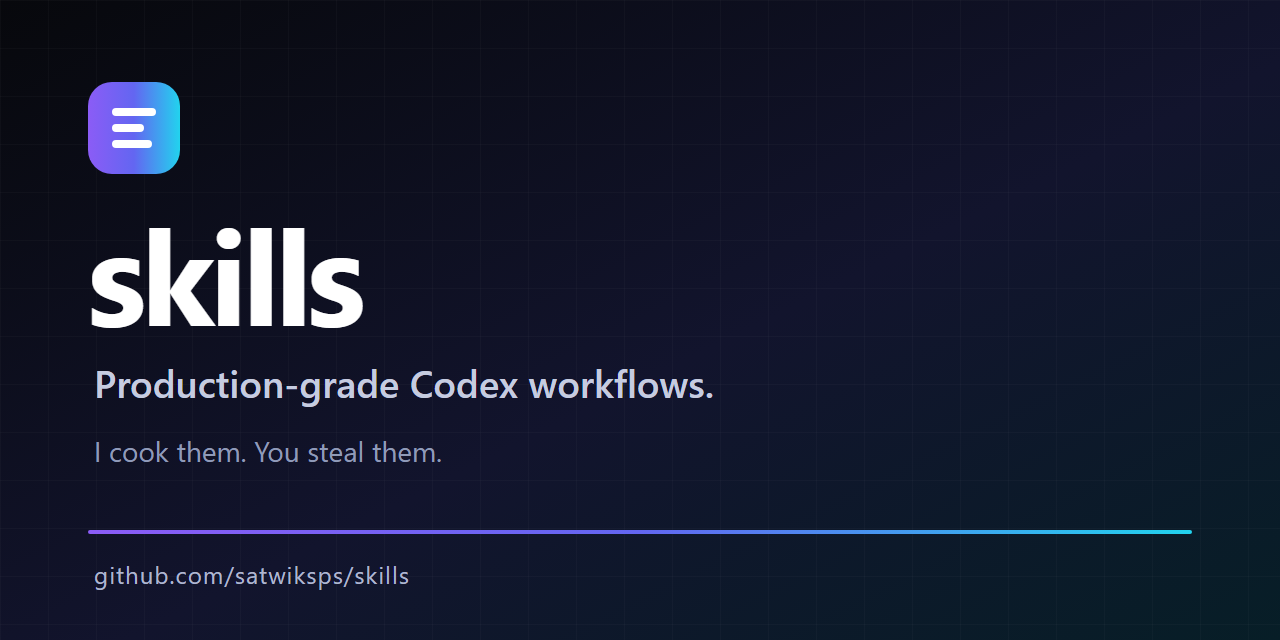
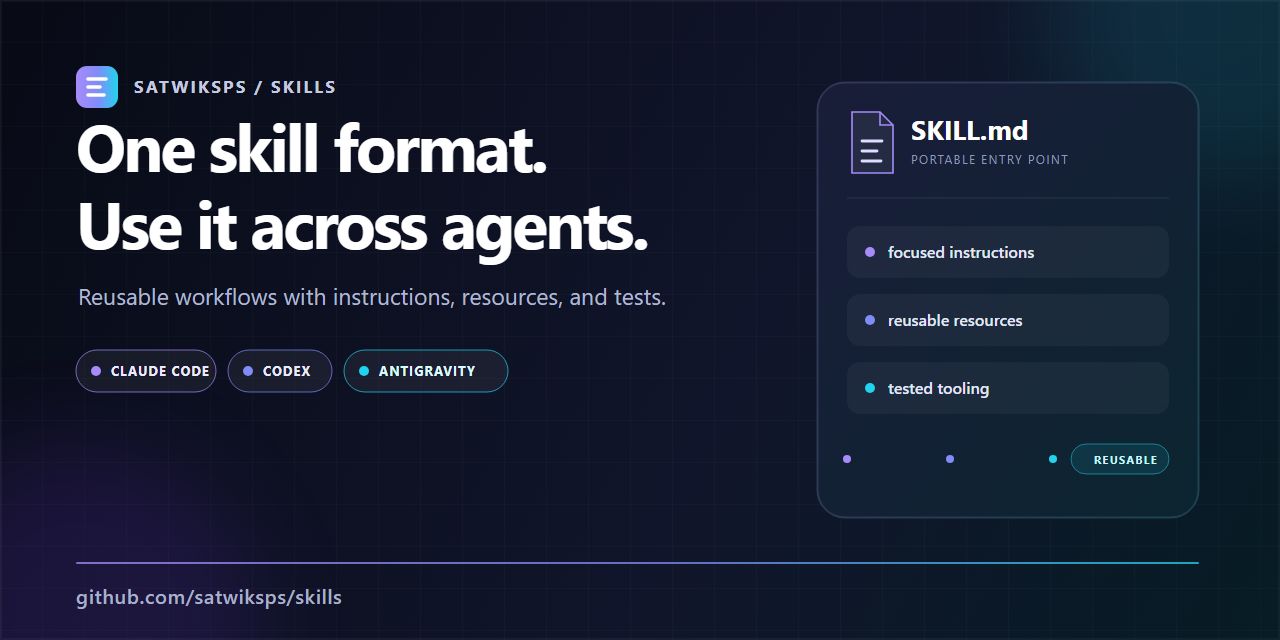
docs: clarify cross-agent support (#2)
Move the repository heading above a professional cross-agent banner, document installation for Claude Code, Codex, and Antigravity, and refresh the social preview.

diff --git a/README.md b/README.md
@@ -1,7 +1,7 @@
+# skills
+
 <div align="center">
-  <img src="assets/banner.svg" alt="Skills: tested workflows for Codex" width="100%">
-  <h1>skills</h1>
-  <p><strong>Production-grade Codex skills. I cook them; you steal them.</strong></p>
+  <img src="assets/banner.svg" alt="One skill format for Claude, Codex, and Antigravity" width="100%">
   <p>
     <a href="https://github.com/satwiksps/skills/actions/workflows/ci.yml"><img src="https://github.com/satwiksps/skills/actions/workflows/ci.yml/badge.svg" alt="CI"></a>
     <a href="LICENSE"><img src="https://img.shields.io/badge/license-Apache--2.0-7c3aed.svg" alt="Apache-2.0"></a>
@@ -9,7 +9,7 @@
   </p>
 </div>
 
-This is my public collection of focused, tested workflows for Codex. Each skill is a self-contained directory with clear activation rules, supporting references, and validation appropriate to the work it performs.
+Reusable agent skills for Claude Code, Codex, and Antigravity. Each skill is a self-contained `SKILL.md` package with focused activation rules, supporting resources, and validation appropriate to the work it performs.
 
 The goal is not to collect prompts. The goal is to make difficult work repeatable.
 
@@ -23,31 +23,85 @@ More skills will be added only when they solve a real workflow and include evide
 
 ## Install a skill
 
-Ask Codex:
+These skills use the portable Agent Skills layout. Install a skill directory in the location used by your agent:
+
+| Agent | Personal or global location | Invocation |
+| --- | --- | --- |
+| Claude Code | `~/.claude/skills/<skill-name>/` | `/skill-name` |
+| Codex | `~/.agents/skills/<skill-name>/` | `$skill-name` |
+| Antigravity | `~/.gemini/config/skills/<skill-name>/` | Mention the skill by name or let Antigravity discover it |
+
+Claude Code also supports project skills in `.claude/skills/`. Codex and Antigravity support repository or workspace skills in `.agents/skills/`.
+
+### Install directly with Codex
+
+Ask Codex to install the latest version:
 
 ```text
 Use $skill-installer to install the build-open-source-software skill from https://github.com/satwiksps/skills/tree/main/skills/build-open-source-software
 ```
 
-The skill becomes available on the next turn. Invoke it with:
+For a reproducible install, replace `main` with a release tag such as `v0.1.0`.
 
-```text
-Use $build-open-source-software with C:\path\to\idea.md
-```
+### Install manually with any supported agent
 
-Manual installation through Codex's bundled installer is also available:
+Clone the collection, then copy the skill directory you want into the appropriate location above:
 
 ```console
-python ~/.codex/skills/.system/skill-installer/scripts/install-skill-from-github.py \
-  --repo satwiksps/skills \
-  --path skills/build-open-source-software
+git clone --depth 1 https://github.com/satwiksps/skills.git satwiksps-skills
 ```
 
-On Windows PowerShell, use `py` and the corresponding path under `$env:USERPROFILE\.codex\skills`.
+The commands below install `build-open-source-software`. Run the pair for your agent.
+
+macOS and Linux:
+
+```sh
+# Claude Code
+mkdir -p ~/.claude/skills
+cp -R satwiksps-skills/skills/build-open-source-software ~/.claude/skills/
+
+# Codex
+mkdir -p ~/.agents/skills
+cp -R satwiksps-skills/skills/build-open-source-software ~/.agents/skills/
+
+# Antigravity
+mkdir -p ~/.gemini/config/skills
+cp -R satwiksps-skills/skills/build-open-source-software ~/.gemini/config/skills/
+```
+
+Windows PowerShell:
+
+```powershell
+# Claude Code
+New-Item -ItemType Directory -Force "$env:USERPROFILE\.claude\skills" | Out-Null
+Copy-Item ".\satwiksps-skills\skills\build-open-source-software" "$env:USERPROFILE\.claude\skills" -Recurse
+
+# Codex
+New-Item -ItemType Directory -Force "$env:USERPROFILE\.agents\skills" | Out-Null
+Copy-Item ".\satwiksps-skills\skills\build-open-source-software" "$env:USERPROFILE\.agents\skills" -Recurse
+
+# Antigravity
+New-Item -ItemType Directory -Force "$env:USERPROFILE\.gemini\config\skills" | Out-Null
+Copy-Item ".\satwiksps-skills\skills\build-open-source-software" "$env:USERPROFILE\.gemini\config\skills" -Recurse
+```
+
+### Invoke the skill
+
+Use the form supported by your agent:
+
+```text
+Claude Code: /build-open-source-software /path/to/idea.md
+Codex: Use $build-open-source-software with /path/to/idea.md
+Antigravity: Use the build-open-source-software skill with /path/to/idea.md
+```
+
+The shared skill format works across all three agents. Host tools, permissions, and invocation behavior can differ.
 
 ## Why trust these skills?
 
 The first skill includes a suite of 90 unit and adversarial tests for its deterministic audit tooling. Its checks cover private planning data, transformed content, Git history, authored prose, archive structure, release metadata, legal files, artifact staging, signing contracts, and clean-checkout behavior.
+
+These tests validate the bundled deterministic tooling and repository package. They are not a host-level end-to-end test matrix for every agent UI.
 
 Every skill in this repository must:
 
@@ -57,8 +111,6 @@ Every skill in this repository must:
 - include a concrete validation path;
 - avoid placeholders, fabricated proof, and hidden manual steps;
 - document its limitations honestly.
-
-Codex is the tested target. Compatibility with other agents is not claimed until it has been exercised there.
 
 ## Repository layout
 

diff --git a/skills/build-open-source-software/README.md b/skills/build-open-source-software/README.md
@@ -1,22 +1,35 @@
-<div align="center">
-  <h1>build-open-source-software</h1>
-  <p><strong>Turn a private idea into tested, documented, release-ready open-source software.</strong></p>
-</div>
+# build-open-source-software
 
-This Codex skill guides a new project from `idea.md` through an approved private plan, implementation, documentation, ecosystem-native packaging, a verified `v0.1.0` release, and pull-request-only governance.
+**Turn a private idea into tested, documented, release-ready open-source software.**
+
+This Agent Skill guides a new project from `idea.md` through an approved private plan, implementation, documentation, ecosystem-native packaging, a verified `v0.1.0` release, and pull-request-only governance. Its shared `SKILL.md` format is supported by Claude Code, Codex, and Antigravity.
 
 ## Install
 
-Ask Codex:
+Install this directory in the location used by your agent:
+
+| Agent | Personal or global location | Invocation |
+| --- | --- | --- |
+| Claude Code | `~/.claude/skills/build-open-source-software/` | `/build-open-source-software` |
+| Codex | `~/.agents/skills/build-open-source-software/` | `$build-open-source-software` |
+| Antigravity | `~/.gemini/config/skills/build-open-source-software/` | Mention `build-open-source-software` |
+
+Claude Code also supports `.claude/skills/` for project-level installation. Codex and Antigravity support `.agents/skills/` for repository or workspace installation. See the repository's [complete installation guide](../../README.md#install-a-skill) for macOS, Linux, and Windows copy commands.
+
+Codex users can install directly by asking Codex:
 
 ```text
 Use $skill-installer to install the skill from https://github.com/satwiksps/skills/tree/main/skills/build-open-source-software
 ```
 
-The skill becomes available on the next turn. Invoke it with:
+For a reproducible install, replace `main` with a release tag such as `v0.1.0`.
+
+Invoke it in the style your agent supports:
 
 ```text
-Use $build-open-source-software with C:\path\to\idea.md
+Claude Code: /build-open-source-software /path/to/idea.md
+Codex: Use $build-open-source-software with /path/to/idea.md
+Antigravity: Use the build-open-source-software skill with /path/to/idea.md
 ```
 
 ## Use it for
@@ -40,7 +53,7 @@ The skill never asks for passwords, private keys, API keys, recovery codes, or l
 
 ## Requirements
 
-- Codex with skill support
+- Claude Code, Codex, Antigravity, or another compatible Agent Skills host
 - Git 2.34 or newer
 - Python 3.11 or newer for the bundled deterministic audit scripts
 - authenticated provider tooling only when the approved workflow reaches an external action
@@ -55,7 +68,9 @@ python -m unittest discover -s tests -v
 
 The suite exercises private-input guarding, authored-text review, release-state checks, archive handling, Git history inspection, and failure behavior. Three symlink-specific tests may skip on Windows systems that do not grant symlink privileges.
 
-The skill cannot prove that arbitrary generated software is correct, secure, or compatible with every ecosystem. It requires project-specific tests, clean-environment verification, evidence review, and explicit user approval at material checkpoints. Human judgment remains necessary for product scope, legal ownership, provider accounts, and final publication.
+The suite validates the bundled deterministic tooling and repository package. It is not a host-level end-to-end test of Claude Code, Codex, or Antigravity.
+
+The skill cannot prove that arbitrary generated software is correct, secure, or compatible with every ecosystem. It requires project-specific tests, clean-environment verification, evidence review, and explicit user approval at material checkpoints. Human judgment remains necessary for product scope, legal ownership, provider accounts, and final publication. Available tools and permissions depend on the host agent.
 
 ## License
 

diff --git a/CHANGELOG.md b/CHANGELOG.md
@@ -6,6 +6,12 @@ The format follows Keep a Changelog, and releases use Semantic Versioning for th
 
 ## [Unreleased]
 
+### Changed
+
+- Repositioned the collection for Claude Code, Codex, and Antigravity.
+- Reworked installation guidance around the portable Agent Skills format.
+- Redesigned the repository banner and social preview artwork.
+
 ## [0.1.0] - 2026-08-25
 
 ### Added
